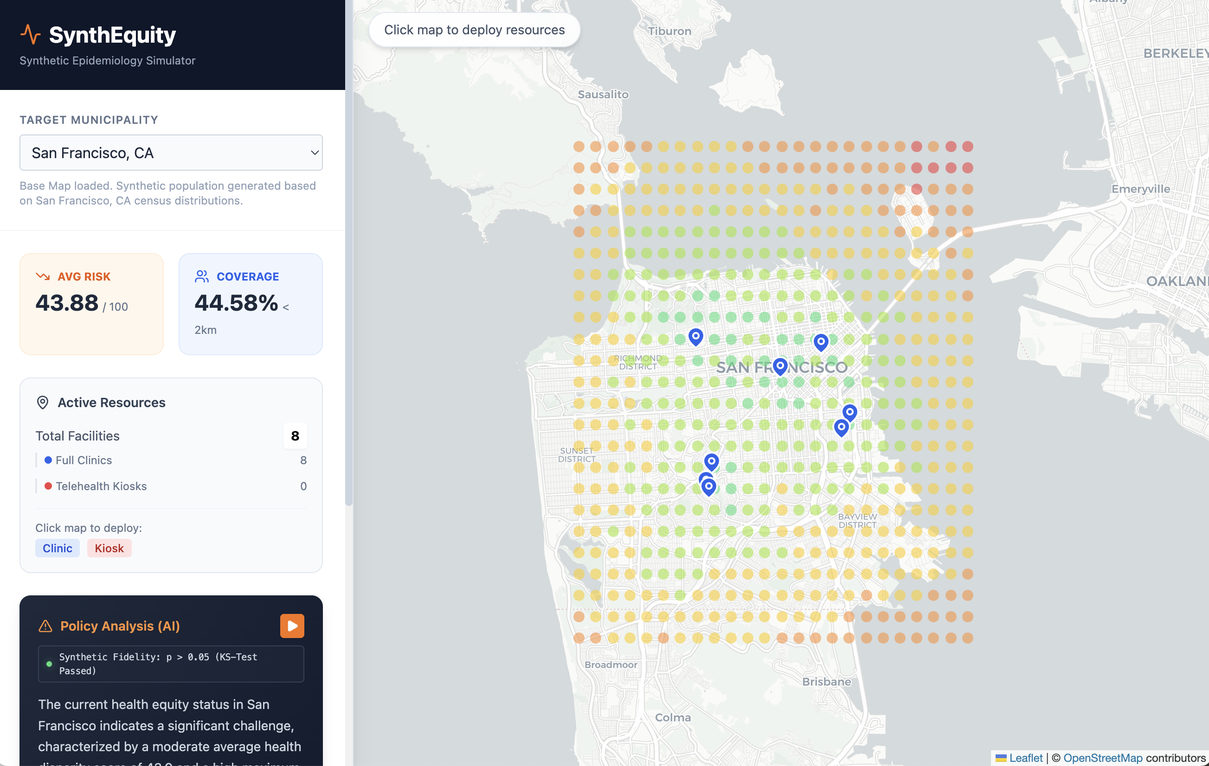
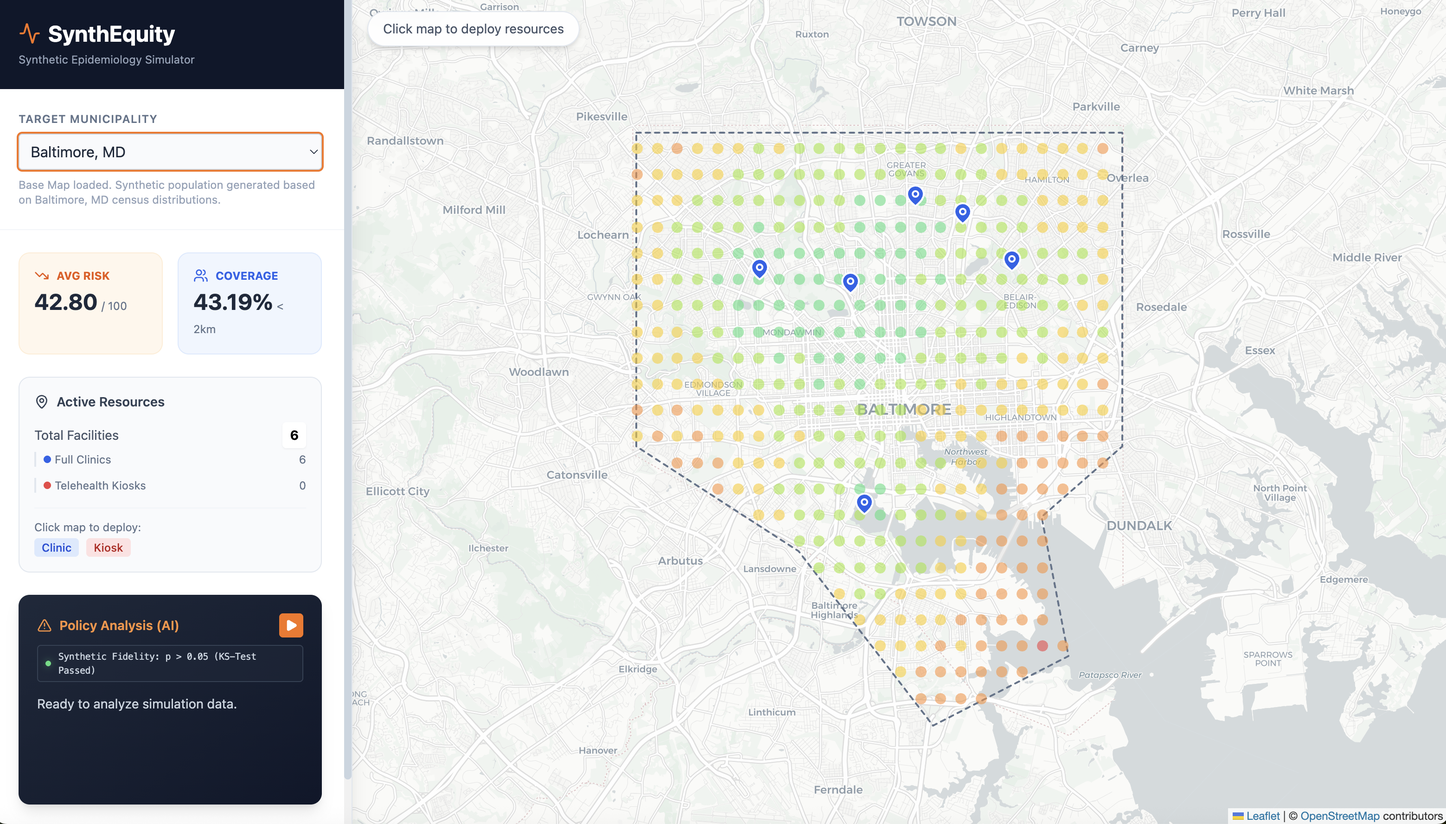
Update referencing images and readme files

diff --git a/index.html b/index.html
@@ -407,7 +407,7 @@
             </div>
 
             <div class="diagram-container">
-                <img src="./synthequity/images/synthequity_arch.png" 
+                <img src="./synthequity/images/synthequity_arch_diagram.png" 
                      alt="System Architecture Diagram" 
                      style="width: 70%; height: 70%; object-fit: cover;">
             </div>

diff --git a/synthequity/README.md b/synthequity/README.md
@@ -2,9 +2,6 @@
 
 SynthEquity is a AI-based simulation tool designed to optimize healthcare access and identify "medical deserts." It utilizes a **synthetic population model** generated via Generative AI and a **multivariate regression model** running via real-time inference to visualize health disparities without compromising individual privacy. This allows policymakers to simulate interventions (placing new clinics) and measure their impact instantly.
 
-<div align="center">
-  <img src="/images/synthequity1.png" alt="SynthEquity Main UI" width="400">
-</div>
 
 ## 📖 Rationale
 
@@ -44,6 +41,16 @@ Health vulnerability is quantified using a **Multivariate Linear Regression mode
 
 ### 3. AI Analysis
 When the user requests a report, the app aggregates the simulation statistics (Average Risk, Coverage %) and sends them to the **Gemini API**. The LLM acts as a public health policy analyst, returning a qualitative assessment of the intervention's effectiveness.
+
+* **Generation Engine:** The population was generated using **Conditional Tabular GANs (CTGAN)**, a deep learning-based generative model designed to model the statistical distribution of modern tabular data.
+* **Data Sources:** The model was trained on **202X ACS (American Community Survey) Census microdata** and **OpenStreetMap (OSM)** geospatial nodes for [Target City/Region].
+* **Validation:** The resulting dataset was validated using the **Kolmogorov-Smirnov (KS) Test**, achieving a p-value > 0.05 to ensure the synthetic distribution (income, transit times, demographics) mirrors the real-world ground truth while containing **zero** Personally Identifiable Information (PII).
+
+## 📊 Validation
+
+To ensure the "Synthetic City" is a mathematical twin of the real city, the model undergoes rigorous statistical testing:
+1.  **Statistical Similarity:** A Kolmogorov-Smirnov (KS) test is performed on distributions. A p-value > 0.05 indicates the synthetic data is statistically indistinguishable from real data.
+2.  **Correlation Preservation:** A Pearson’s *r* correlation matrix confirms that complex dependencies between variables (e.g., Poverty &harr; Transit Dependence) are maintained.
 
 ## ⚠ Disclaimer
 

diff --git a/README.md b/README.md
@@ -59,8 +59,16 @@ Unlike traditional GIS tools that rely on slow server-side processing, SynthEqui
 
 SynthEquity utilizes a Generative AI model (CTGAN) to produce a privacy-preserving synthetic population from public data. A multivariate regression model is then trained on this synthetic population to power real-time inference for the browser-based dashboard, calculating health disparity scores to identify medical deserts and simulate intervention impacts.
 
-![Architecture Diagram](./synthequity/images/synthequity_arch1.png)
+![Architecture Diagram](./synthequity/images/synthequity_arch_diagram)
 ---
+
+## 🧠 Data Methodology & Privacy
+
+To model healthcare accessibility without compromising individual privacy, **SynthEquity** utilizes a fully synthetic population rather than raw patient records.
+
+* **Generation Engine:** The population was generated using **Conditional Tabular GANs (CTGAN)**, a deep learning-based generative model designed to model the statistical distribution of modern tabular data.
+* **Data Sources:** The model was trained on **202X ACS (American Community Survey) Census microdata** and **OpenStreetMap (OSM)** geospatial nodes for [Target City/Region].
+* **Validation:** The resulting dataset was validated using the **Kolmogorov-Smirnov (KS) Test**, achieving a p-value > 0.05 to ensure the synthetic distribution (income, transit times, demographics) mirrors the real-world ground truth while containing **zero** Personally Identifiable Information (PII).
 
 ## 📊 Validation
 
